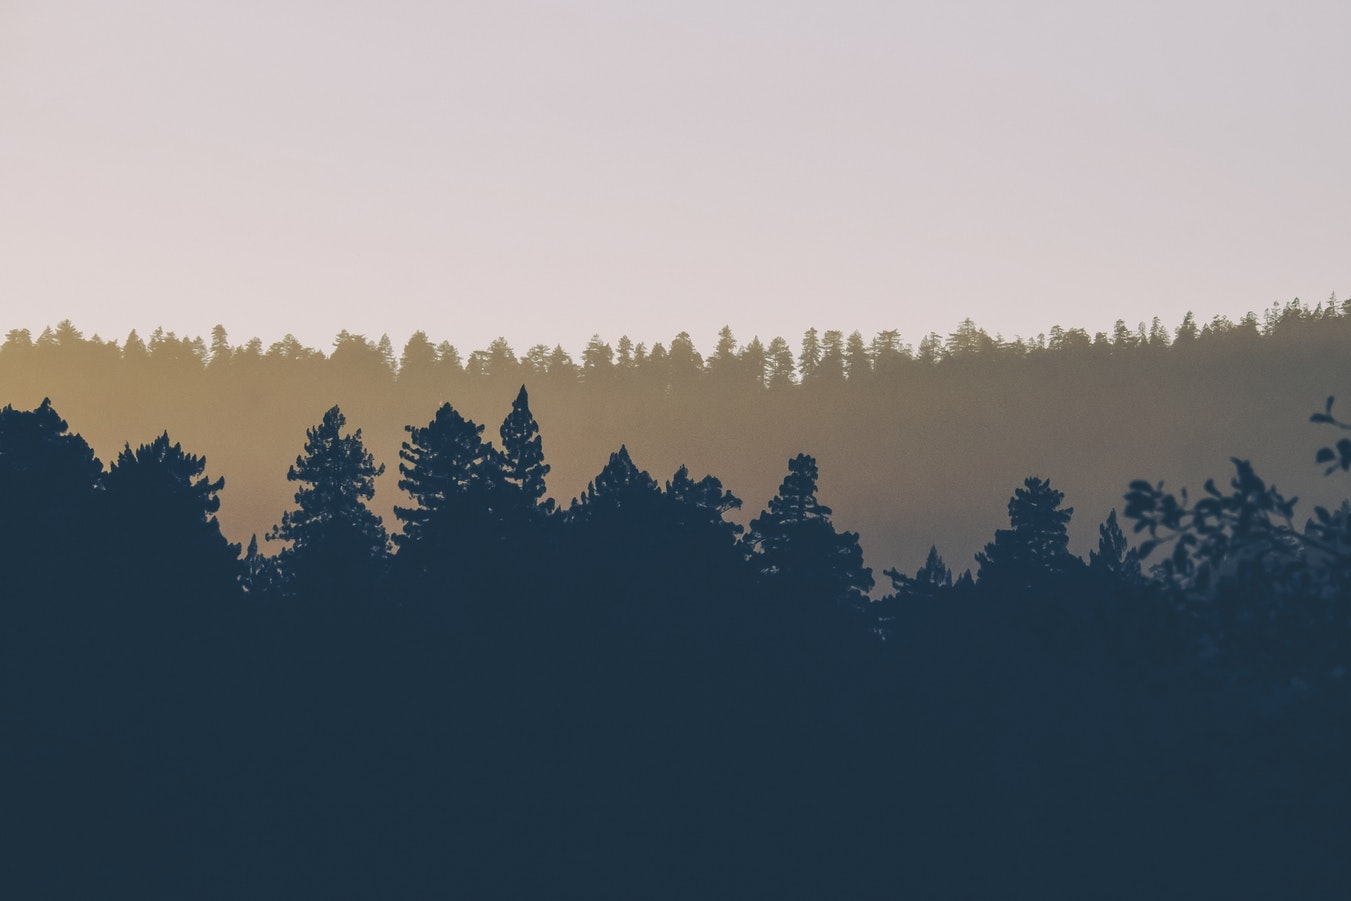
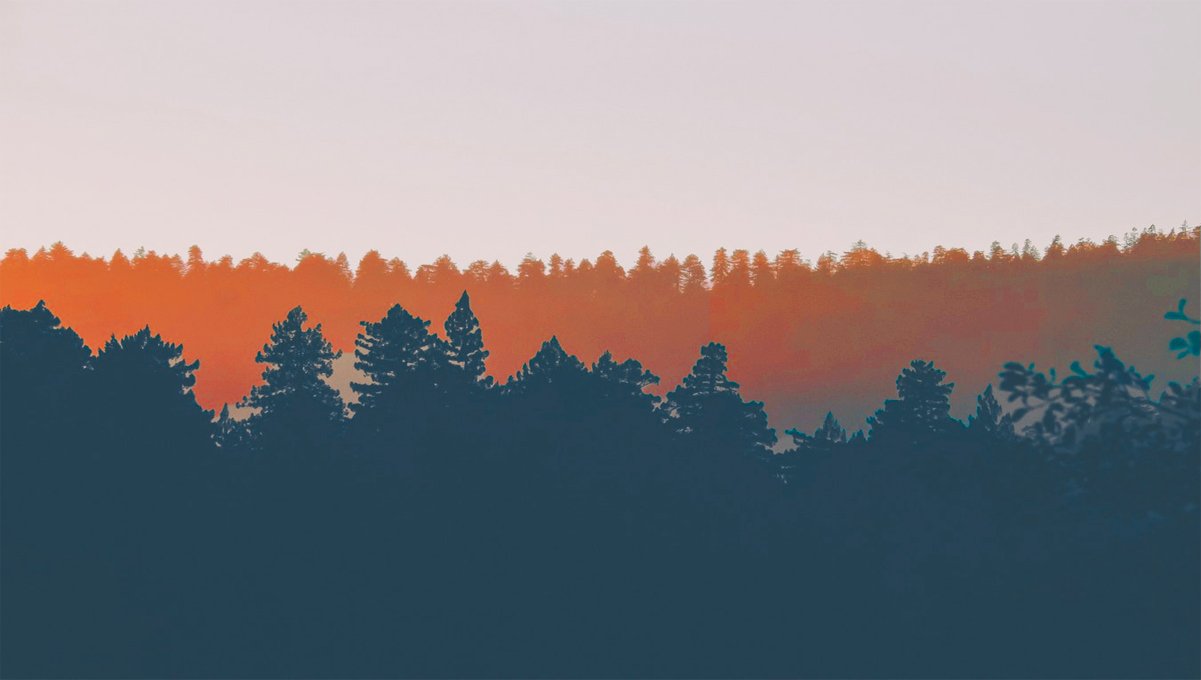
varios pap

diff --git a/css/estilos.css b/css/estilos.css
@@ -34,12 +34,10 @@ h1 {
     margin-top:40px; 
 }
 
-
 header {
     width: 100%;
-    background: url('../images/fondo.jpg') #281a0c;
-    background-size:cover;
-    background-attachment: fixed;
+    background: url('../images/fondo.jpg') #fff no-repeat;
+    background-size: cover;
     background-position: center 0;
 }
 
@@ -71,27 +69,32 @@ header .menu a {
     display: inline-block
 }
 
-header .textos {
-    width: 100%;
-    color: #fff;
+.contenedor div {
     position: absolute;
-    top: 50%;
-    margin-top:-52px;
+    display: grid;
+    grid-template-areas: "imagen parrafo1"
+                        "imagen parrafo2" ;
+    padding-top: 150px;
+    margin: auto;
 }
 
-header .textos .nombre {
-    font-size: 50px;
-    font-weight: 600;
+.contenedor div p {
+    width: 80%;
+    color: white;
+    font-size: 60px;
 }
 
-header .textos .nombre span {
-    font-weight: 300;
+.contenedor div img{
+    grid-area: imagen;
+    width: 100%;
 }
 
-header .textos h3 {
-    font-weight: 300;
-    font-size: 25px;
-    font-style: italic;
+.contenedor div p:first-child {
+    grid-area: parrafo1;
+    width: 100%;
+}
+.contenedor div p:last-child{
+    grid-area: parrafo2
 }
 
 main {
@@ -107,7 +110,7 @@ section {
     margin: 150px 0;  
     display: grid;
     grid-template-columns: 1fr 1fr 1fr ;
-    grid-template-rows: auto-fill 1fr auto-fill 1fr;
+    grid-template-rows: 1fr 1fr;
     grid-auto-rows: min-content;
     grid-gap: 5px;
 }
@@ -116,7 +119,7 @@ section {
     grid-column-start: 2;
     grid-column-end: -1;
 }
-#fotografia img {
+#fotografia div img {
     -webkit-filter: grayscale(100%); /* Safari 6.0 - 9.0 */
     filter: grayscale(100%);
     width: 100%;
@@ -124,7 +127,7 @@ section {
 
 #fotografia img:hover{
     filter: none;
-    transition: all 3s;
+    transition: all .5s;
 }
 
 #fotografia h2 {
@@ -132,7 +135,7 @@ section {
 }
 
 #fotografia div:nth-child(3){
-    margin-bottom: 300px;
+    margin-bottom: 50px;
     filter: none;
     -webkit-box-shadow: 4px 7px 20px -9px rgba(0,0,0,0.75);
     -moz-box-shadow: 4px 7px 20px -9px rgba(0,0,0,0.75);
@@ -142,6 +145,7 @@ section {
     grid-template-columns: 2fr 1fr;
     grid-template-rows: 1fr;
 }
+
 #fotografia div:nth-child(3) img{ 
     filter: none;
 }
@@ -162,13 +166,7 @@ section {
     font-size: 25pt;
     text-align: center;
 }
-
-#fotografia a {
-    color: orangered;
-    margin: auto;
-    text-align: center;
-}
-
+  
 section:nth-child(4) {
     margin: 300px 0;
     width: 100vw;
@@ -179,7 +177,12 @@ section:nth-child(4) img{
     height: 500px;
 }
 
+#fotografia {
+    margin-bottom: 300px;
+}
+
 #proyectos{
+    margin-top:300px; 
     display: flex;
     flex-direction: row;
     justify-content: center;
@@ -230,6 +233,75 @@ section:nth-child(4) img{
 }
 #fortalezas ul li:nth-child(5) {
     width: 35%;
+}
+
+#contacto {
+    display: grid;
+    grid-template-columns: 1fr;
+}
+
+#contacto h2 {
+    text-align: center;
+    padding-bottom: 20px;
+    font-size: 30px;
+}
+
+form {
+    display: flex;
+    flex-direction: column;
+    border: 2px solid orangered;
+    border-radius: 10px;
+    padding: 30px;
+    width: 60%;
+    margin: auto;
+}
+
+form input ,textarea{
+    border: 2px solid orangered;
+    border-radius: 10px;
+    margin-bottom: 20px;
+    font-size: 20px;
+    padding: 10px;
+}
+
+form input:last-child{
+    width: 20%;
+    align-self: flex-end;
+    background: #fff;
+    margin-bottom: 0;
+}
+
+#contacto ul{
+    display: flex;
+    flex-direction: row;
+    justify-content: center;
+    align-items: center;
+    list-style: none;
+    padding: 30px 0;
+    width: 60%;
+    margin: auto;
+}
+
+#contacto ul li {
+    padding: 0 10px;
+}
+
+#contacto ul li a img{
+    width: 50px;
+}
+
+footer {
+    background: #000;
+    color: #fff;
+    height: 50px;
+    text-align: center;
+    display: flex;
+    align-items: center;
+    justify-content: center;
+}
+
+footer span {
+    color: orangered;
 }
 
 

diff --git a/index.html b/index.html
@@ -1,5 +1,5 @@
 <!DOCTYPE html>
-<html lang="en">
+<html lang="ES">
 <head>
     <meta charset="UTF-8">
     <meta name="viewport" content="width=device-width, initial-scale=1.0">
@@ -21,9 +21,10 @@
                     <img src="Iconos/file-rounded-outlined-symbol.svg" alt="iconocv" width="15px" height="100%"><p>CV</p>
                 </a>
             </nav>
-            <div class="textos">
+            <div>
+                <img src="images/perfil.png" alt="imagen-perfil">
                 <p>Diseñador Web</p>
-                <p>Fotografo</p>
+                <p> Fotografo.</p>
             </div>
         </div>
     </header>
@@ -54,7 +55,6 @@
                 </div>
                 <img src="images/img 5.jpg" alt="imagen plaza serrano">
             </div>
-            <a href="#">VER GALERIA</a>
         </section>
         <section id="proyectos">
             <img src="images/web1.png" alt="imgweb1">
@@ -73,25 +73,27 @@
         <section id="ilustracion">
             <img src="images/ilustracion.jpg" alt="ilustracion">
         </section>
-        <section id="conacto">
+        <section id="contacto">
+            <h2>Contactame.</h2>
             <form action="">
                 <label for="nombre">Nombre:</label>
                 <input type="text" name = 'nombre' id="nombre" required>
                 <label for="apellido">Apellido:</label>
                 <input type="text" name = 'apellido' id="apellido" required>
                 <label for="email">Email:</label>
-                <input type="email" name = "email" id="email">
+                <input type="email" name = "email" id="email" required>
                 <label for="cometario">Comenarios:</label>
-                <textarea name="comentario" id="comentario" cols="30" rows="10"></textarea>
+                <textarea name="comentario" id="comentario" cols="30" rows="5"></textarea>
+                <input type="submit">
             </form>
             <ul>
-                <li><a href=""></a></li>
-                <li><a href=""></a></li>
-                <li><a href=""></a></li>
-                <li><a href=""></a></li>
+                <li><a href=""><img src="iconos/instagram-logo.svg" alt="instagram-logo"></a></li>
+                <li><a href=""><img src="iconos/pinterest-letter-logo-outline-in-a-rounded-square.svg" alt="pinterest-logo"></a></li>
+                <li><a href=""><img src="iconos/linkedin-.svg" alt="linkedin-logo"></a></li>
+                <li><a href=""><img src="iconos/dribble-logo.svg" alt="dribbble-logo"></a></li>
             </ul>
         </section>
     </main>
-    <footer>© - DANIEL<span>FIMIANI</span> - 2019</footer>
+    <footer>© - DANIEL<span>FIMIANI- 2019</span></footer>
 </body>
 </html>
